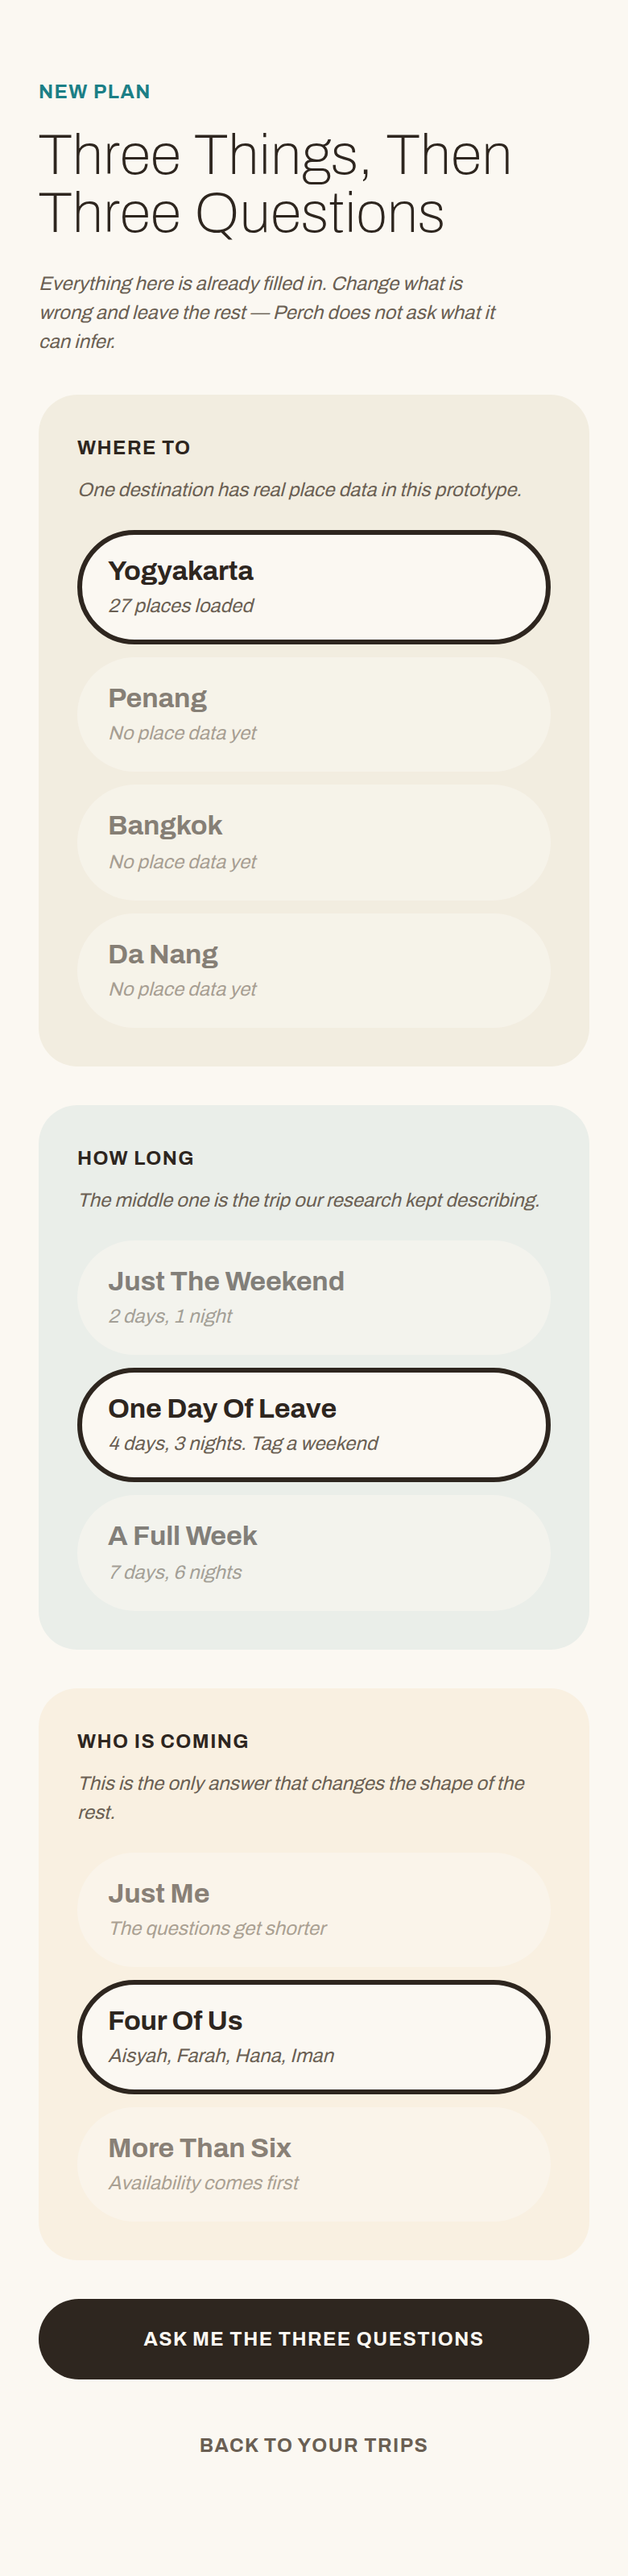
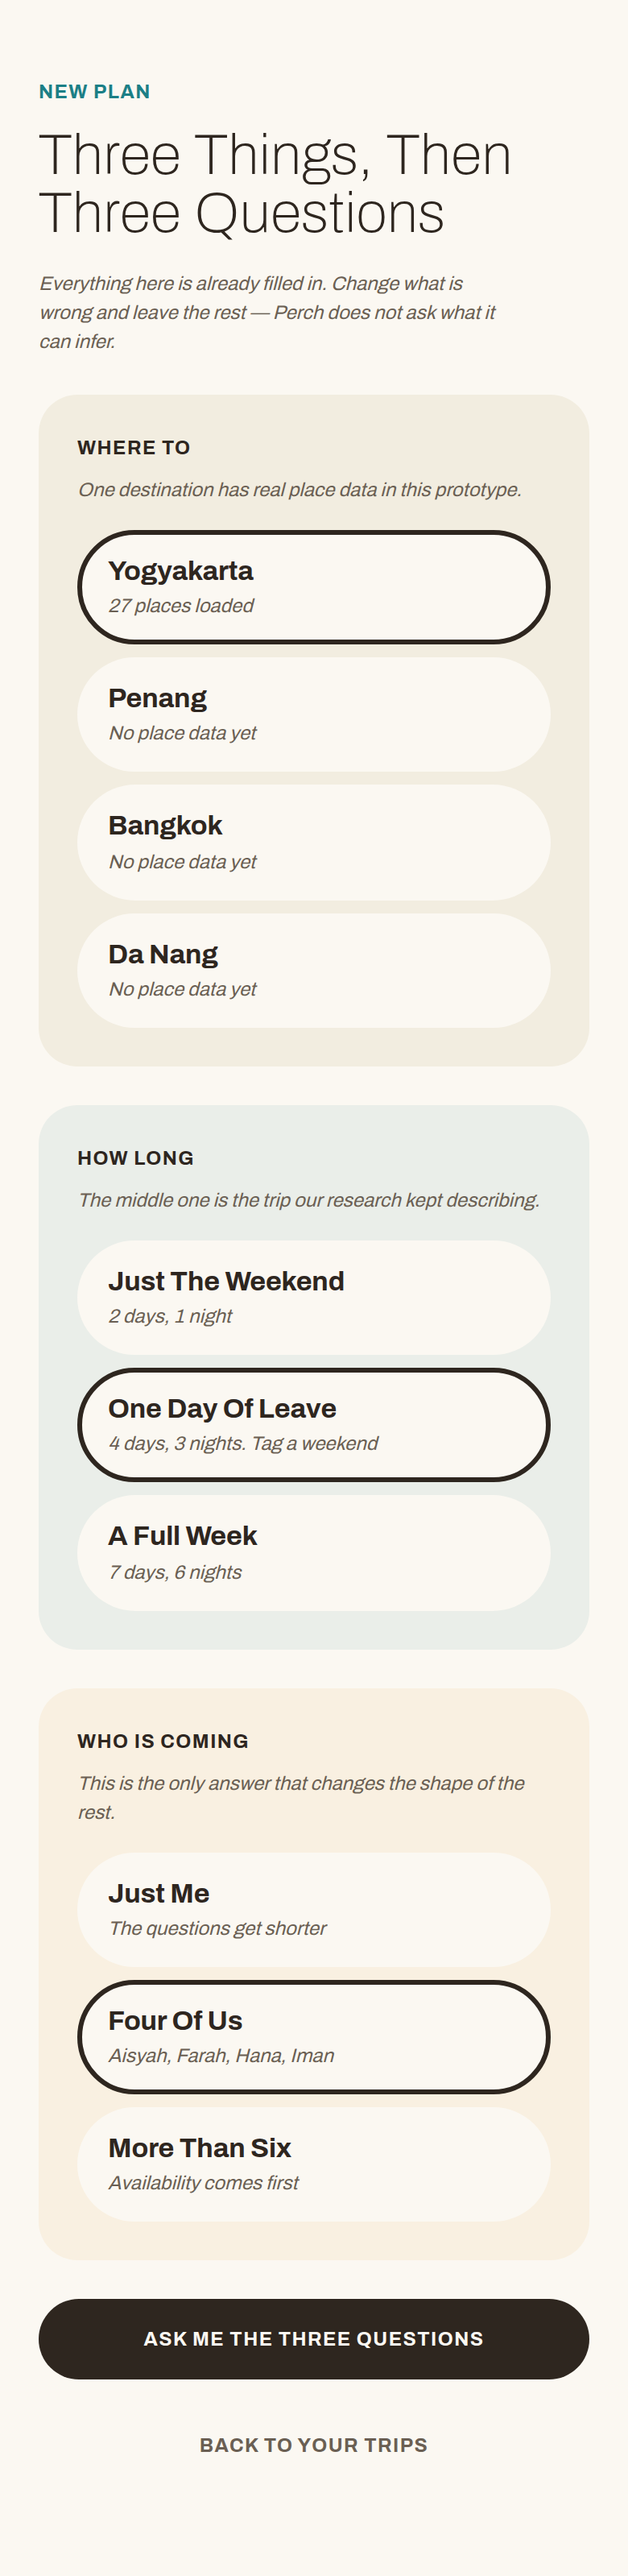
fix: dim only the destinations that have no place data
Every unselected chip was dimmed, so the trip-length and party rows read
as disabled when all of their options are selectable. Only the three
destinations without a fixture are unavailable, and only they should look
it.

Claude-Session: https://claude.ai/code/session_01BemFpMNNau3HuGFV6AzSEp

diff --git a/src/surfaces/NewPlan.tsx b/src/surfaces/NewPlan.tsx
@@ -2,25 +2,25 @@ import { useState } from 'react'
 import { useNavigate } from 'react-router-dom'
 import './NewPlan.css'
 
-type Choice = { id: string; label: string; note: string; ready?: boolean }
+type Choice = { id: string; label: string; note: string; stub?: boolean }
 
 const WHERE: Choice[] = [
-  { id: 'yogya', label: 'Yogyakarta', note: '27 places loaded', ready: true },
-  { id: 'penang', label: 'Penang', note: 'No place data yet' },
-  { id: 'bangkok', label: 'Bangkok', note: 'No place data yet' },
-  { id: 'da-nang', label: 'Da Nang', note: 'No place data yet' }
+  { id: 'yogya', label: 'Yogyakarta', note: '27 places loaded' },
+  { id: 'penang', label: 'Penang', note: 'No place data yet', stub: true },
+  { id: 'bangkok', label: 'Bangkok', note: 'No place data yet', stub: true },
+  { id: 'da-nang', label: 'Da Nang', note: 'No place data yet', stub: true }
 ]
 
 /** The lengths are prefills, not a date picker. The middle one is what every panel answer described unprompted. */
 const HOW_LONG: Choice[] = [
   { id: 'weekend', label: 'Just The Weekend', note: '2 days, 1 night' },
-  { id: 'leave', label: 'One Day Of Leave', note: '4 days, 3 nights. Tag a weekend', ready: true },
+  { id: 'leave', label: 'One Day Of Leave', note: '4 days, 3 nights. Tag a weekend' },
   { id: 'week', label: 'A Full Week', note: '7 days, 6 nights' }
 ]
 
 const WHO: Choice[] = [
   { id: 'solo', label: 'Just Me', note: 'The questions get shorter' },
-  { id: 'four', label: 'Four Of Us', note: 'Aisyah, Farah, Hana, Iman', ready: true },
+  { id: 'four', label: 'Four Of Us', note: 'Aisyah, Farah, Hana, Iman' },
   { id: 'more', label: 'More Than Six', note: 'Availability comes first' }
 ]
 
@@ -45,7 +45,7 @@ export const NewPlan = () => {
               type="button"
               className="np-chip"
               data-on={value === o.id}
-              data-ready={o.ready === true}
+              data-stub={o.stub === true}
               onClick={() => set(o.id)}
             >
               <span className="t-name">{o.label}</span>
